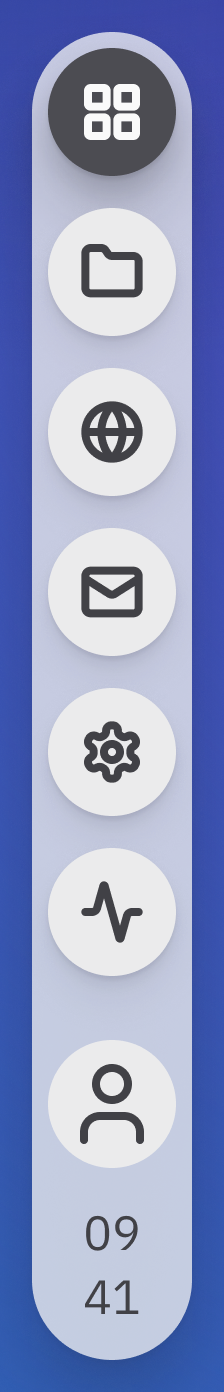
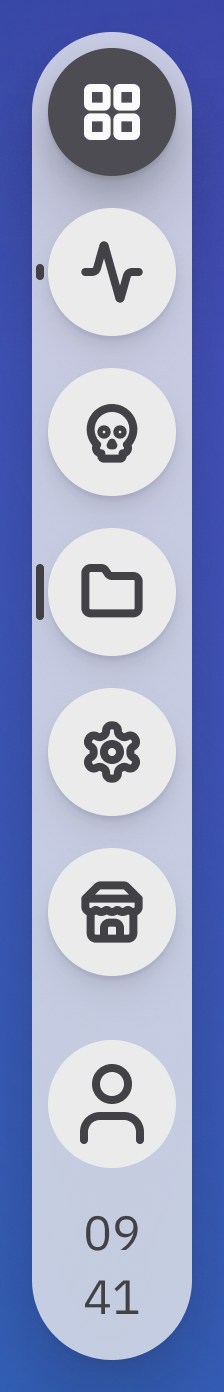
Userbar in Figma allineata al codice: segno delle app aperte, vassoio in ordine, pulsante App premuto, app fissate del sistema; foto e descrizione

diff --git a/disegni/Scrivania/descrizione.md b/disegni/Scrivania/descrizione.md
@@ -8,12 +8,19 @@ Fonte: Figma "mshell – interfaccia" (X9g7EOJgKBlE4QjmjrTLFt).
 ## Userbar (pillola di vetro, 40 x 332, x 8 -> 48, centrata in altezza: y 234 nella schermata)
 - Auto-layout verticale, larghezza fissa 40, altezza che si adatta. Padding spazio/4 su alto, destra e sinistra; **in basso spazio/8** (vedi spaziatura). **Gap spazio/16 tra i due gruppi.** Angoli raggio/pillola, riempimento superficie/vetro (72%), ombra effetto/ombra/barra. Nessuna linea, nessun ritaglio.
 - Due gruppi (auto-layout verticale, padding spazio/0, gap spazio/8, senza sfondo, senza ritaglio):
-  - "Gruppo app" (232 di altezza): Pulsante App (Primario, S, 32) + app (Secondario, S, 32: Files, Browser, Posta, Impostazioni, Attivita).
+  - "Gruppo app" (232 di altezza): Pulsante App (Primario, S, 32) + 5 app ("Pulsante app (userbar)" 285:5580, che contiene Secondario, S, 32): Attività, Doom, Files, Impostazioni, Store (le app del sistema fissate, in ordine). Terminale ha nella_barra = false, quindi non e' fissato.
   - "Gruppo profilo" (72): Foto profilo + Ora.
 - Gap tra i gruppi = spazio/16: e il doppio del gap interno (8), quindi lo stacco si vede senza linea; 24 sarebbe troppo grande per una pillola di 332 su 800 e la fa crescere oltre il necessario.
 - Foto profilo: cerchio 32 x 32, angoli raggio/pillola, fondo controllo/sfondo, padding 0. Segnaposto: Simbolo/user (Lucide "user", **24** secondo il nodo Figma 274:3504; colore icona Primario) perche non c'e ancora una foto vera.
 - Ora: testo su due righe, "09" sopra e "41" sotto (ore e minuti, 24 ore), stile testo/piccolo (IBM Plex Sans Regular 12/16), colore testo/primario, centrato, spaziatura lettere 0. Casella larga 32 (riempie il gruppo), alta 32, padding 0.
 - Separazione tra app e profilo: solo il gap spazio/16 della pillola.
+
+## Segno delle app aperte (componente "Pulsante app (userbar)")
+- Insieme di varianti 285:5580 (pagina "Componenti complessi" 104:2, sezione 160:3269, sotto la Userbar). Proprieta **Stato app**: Chiusa 285:5562, Aperta 285:5568, In primo piano 285:5574. Ogni variante: auto-layout orizzontale 32 x 32, padding spazio/0, nessun ritaglio, contiene l'istanza "Pulsante" (Secondario, S, Normale 92:1050) e il rettangolo "Segno app aperta".
+- Segno: larghezza 2, **alto 4 se Aperta, 14 se In primo piano** (nascosto se Chiusa), centrato in verticale sul pulsante; x = -3 rispetto al pulsante (cioe' 1 dal bordo della pillola: x 1..3, nel margine di 4); posizionamento ASSOLUTO nell'auto-layout, quindi non cambia il layout (pillola resta 40 x 332, gruppo app 232). Colore testo/primario (Semantici), angoli raggio/pillola (diventano 1, a pillola).
+- Come nel codice (`uikit/interno/userbar.c`: x = pillola + (USERBAR_MARGINE - 2)/2, y = centro del pulsante - alto/2, `riempi_tondo` raggio 1, colore TESTO_PRIMARIO).
+- Nelle schermate: Attività = Aperta, Files = In primo piano, le altre Chiusa (impostato sulle istanze annidate nella userbar).
+- Nuovi simboli (Lucide, stesso schema degli altri Simbolo, in "Icone – Simbolo" 160:1232, pagina "Componenti base" 80:740): Simbolo/store 285:5545, Simbolo/doom 285:5554 (scelta provvisoria: "skull"), Simbolo/pacchetto 285:5875 ("package", come ICONA_PACKAGE del codice per le app senza icona propria).
 
 ## Spaziatura (userbar)
 - Gli elementi e i gruppi hanno padding 0; lo spazio lo da solo la pillola.
@@ -26,4 +33,6 @@ Fonte: Figma "mshell – interfaccia" (X9g7EOJgKBlE4QjmjrTLFt).
 - Chiaro e Scuro seguono la collezione Semantici.
 
 ## Note
-- Vassoio delle app aperto (148:862): centrato in altezza sulla userbar (centro del vassoio = centro della pillola = y 400; vassoio a y 312).
+- Il pulsante App nella schermata del vassoio e' in stato Premuto (variante "Pulsante App=Premuto" 148:710) finche' il vassoio e' aperto, come nel codice.
+- Vassoio app (componente 148:534, 3 colonne): 8 voci nell'ordine del codice, prima le app del sistema (Attività 148:536, Doom 148:547, Files 148:557, Impostazioni 148:565, Store 148:574, Terminale 148:582), poi le altre per nome (Contatore 285:5883, Esempio 285:5888, simbolo pacchetto). Altezza 252.
+- Vassoio delle app aperto (148:862): centrato in altezza sulla userbar (centro del vassoio = centro della pillola = y 400; vassoio alto 252, a y 274).
